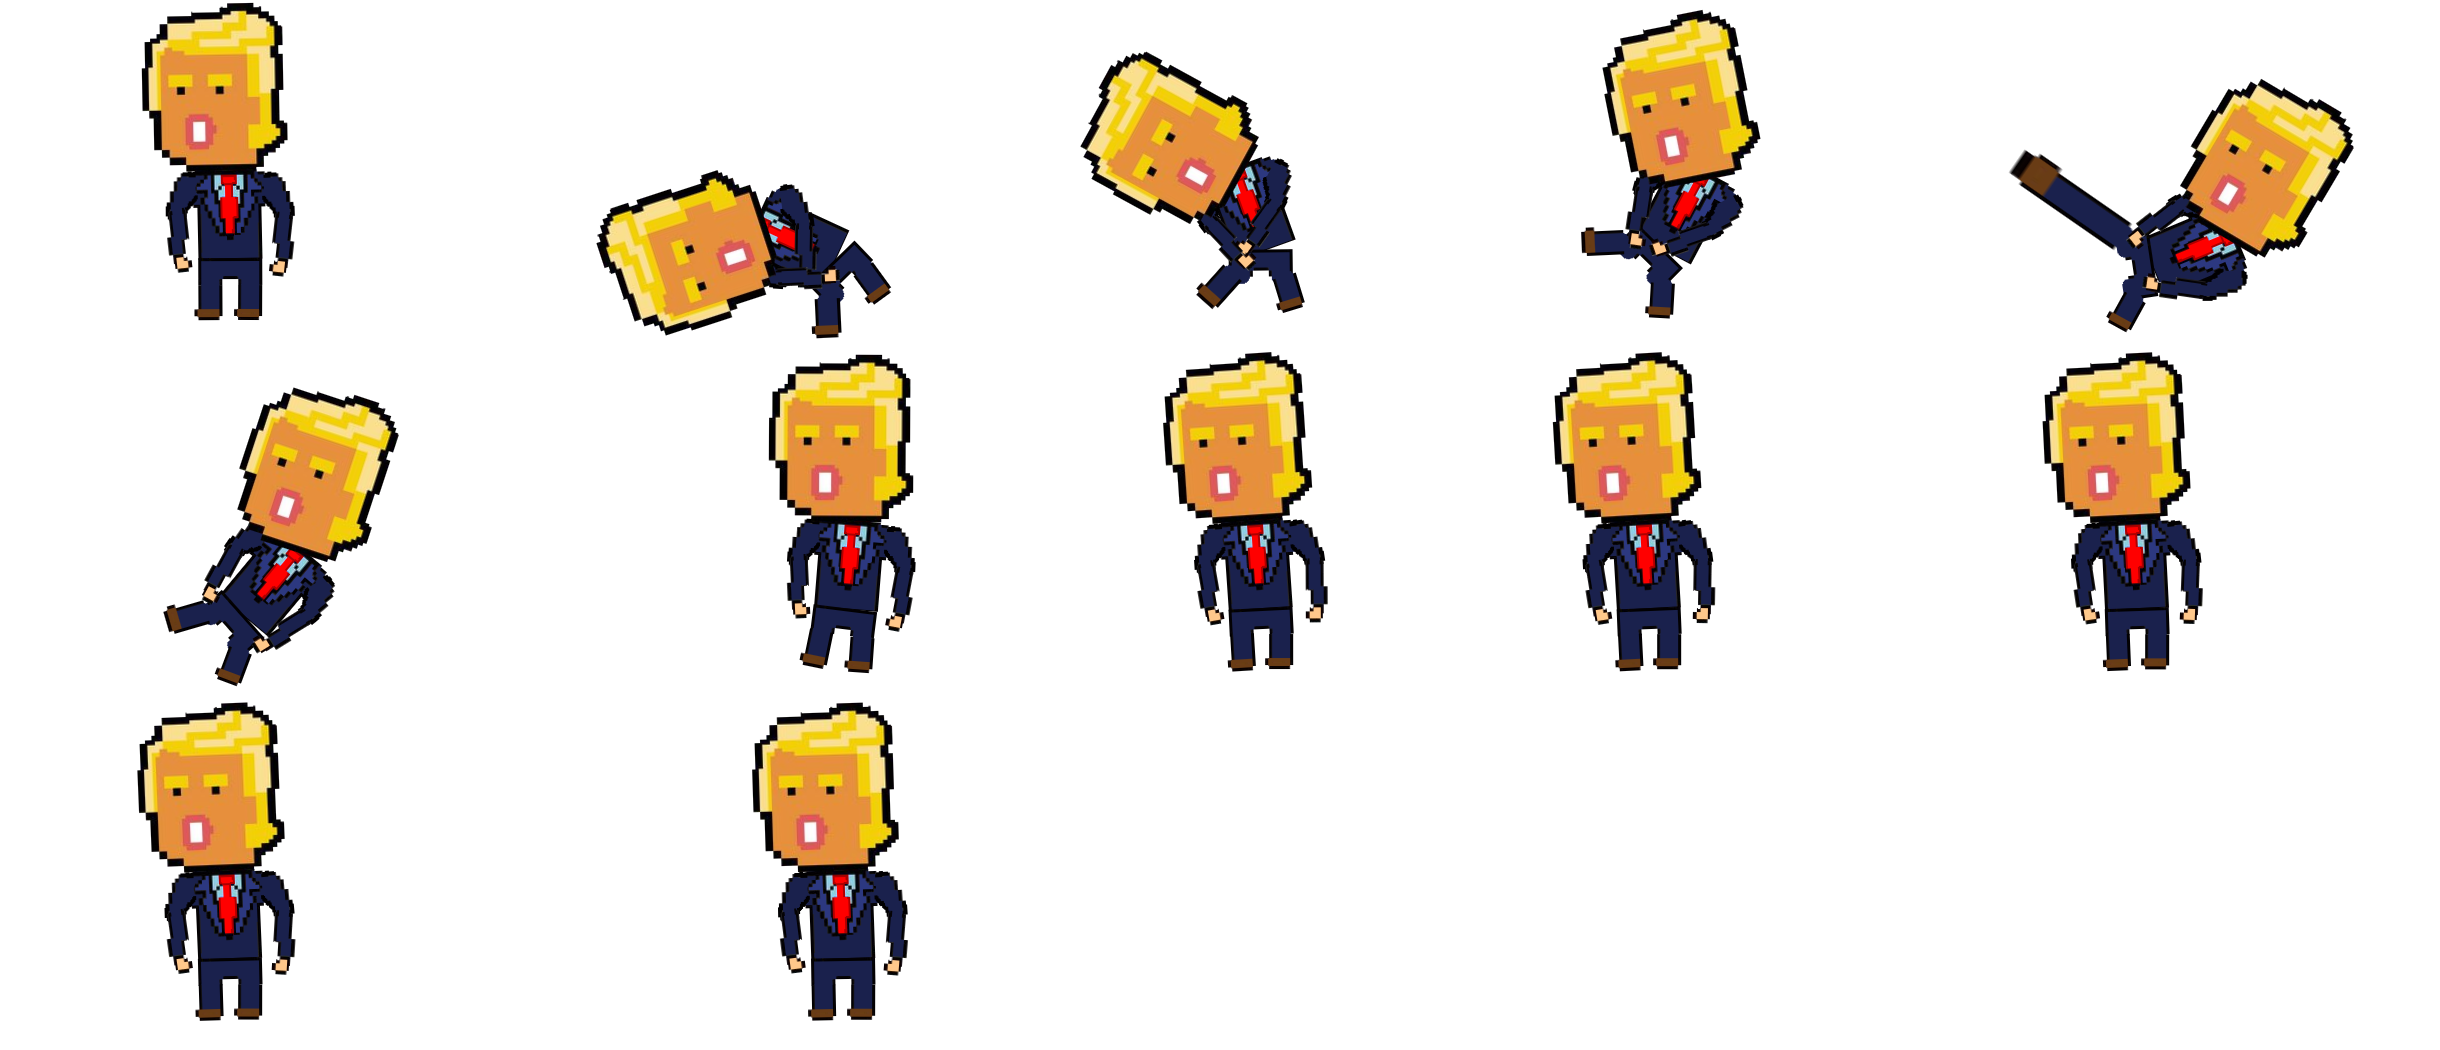
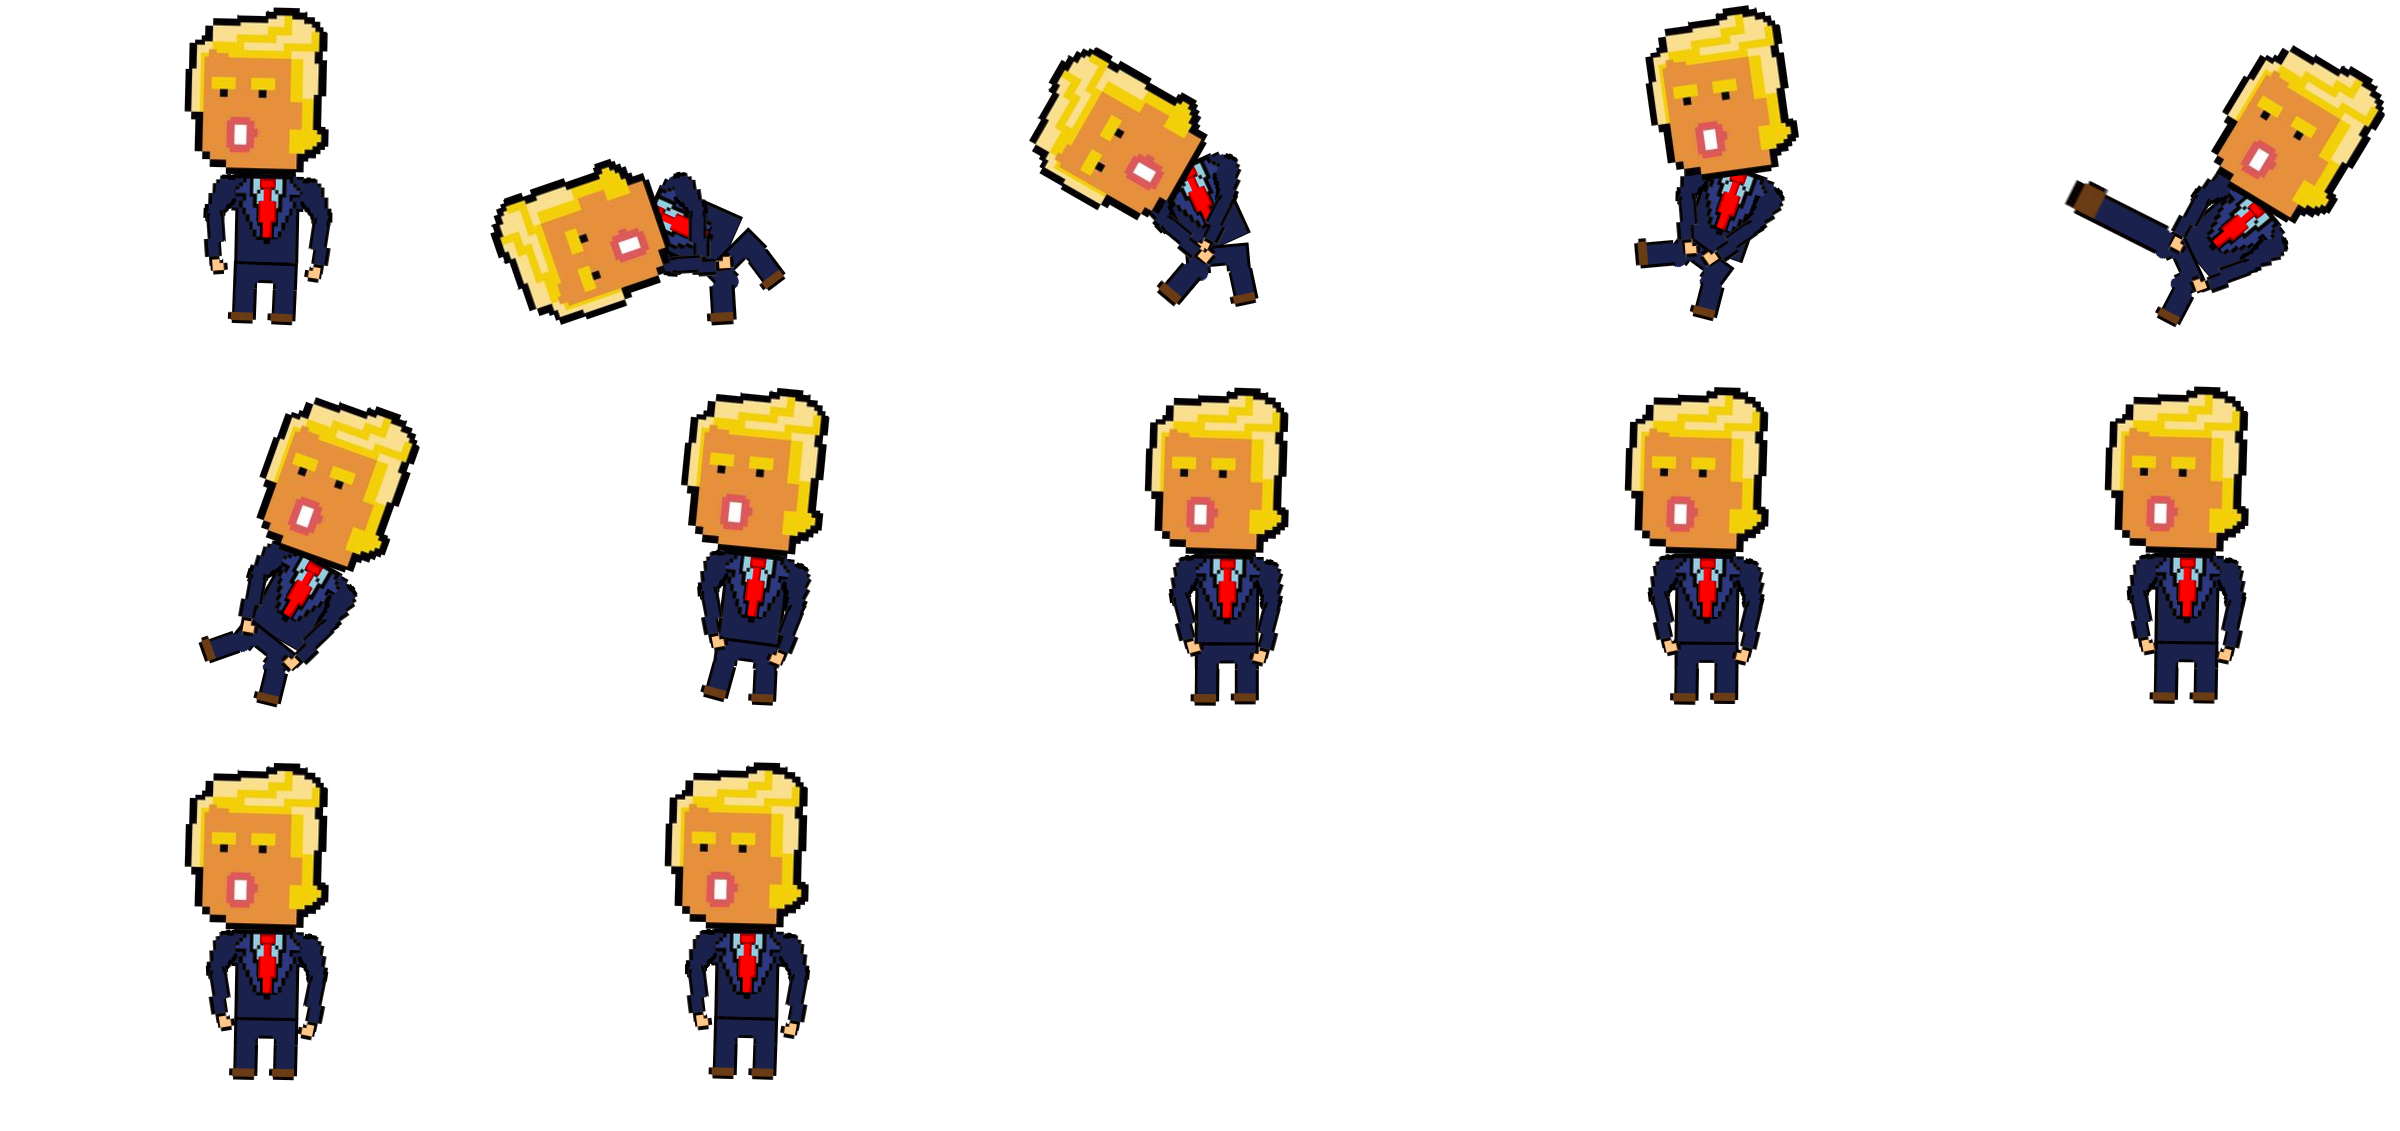
working on left facing animations

diff --git a/aiFighter.js b/aiFighter.js
@@ -111,7 +111,7 @@ function AIFighter(game, fighterName, ASSET_MANAGER, x, y, aiStatus) {
 
         //STAND
         this.animation = new Animation(ASSET_MANAGER.getAsset("./img/Trump/TrumpStanding.png"), 0, 0, 270, 325, 0.099, 6, true, false);
-        this.animationLeft = new Animation(ASSET_MANAGER.getAsset("./img/Trump/TrumpStandingLeft.png"), -10, 0, 260, 325, 0.099, 6, true, false);
+        this.animationLeft = new Animation(ASSET_MANAGER.getAsset("./img/Trump/TrumpStandingLeft.png"), 0, 0, 280, 320, 0.099, 5, true, false);
 
         //JUMP
         this.jumpAnimation = new Animation(ASSET_MANAGER.getAsset("./img/Trump/TrumpJump.png"), 0, 0, 242, 353, 0.06, 20, false, false);
@@ -119,7 +119,7 @@ function AIFighter(game, fighterName, ASSET_MANAGER, x, y, aiStatus) {
 
         //PUNCH
         this.punchingAnimation = new Animation(ASSET_MANAGER.getAsset("./img/Trump/TrumpPunch.png"), 0, 0, 434, 345, 0.06, 12, false, false);
-        this.punchingAnimationLeft = new Animation(ASSET_MANAGER.getAsset("./img/Trump/TrumpPunchLeft.png"), 0, 0, 434, 345, 0.06, 12, false, false);
+        this.punchingAnimationLeft = new Animation(ASSET_MANAGER.getAsset("./img/Trump/TrumpPunchLeft.png"), 0, 0, 434, 359, 0.06, 12, false, false);
 
         //LOW KICK
         this.lowKickingAnimation = new Animation(ASSET_MANAGER.getAsset("./img/Trump/TrumpLoKick.png"), 0, 0, 429, 341, 0.06, 12, false, false);
@@ -130,7 +130,7 @@ function AIFighter(game, fighterName, ASSET_MANAGER, x, y, aiStatus) {
 
         //WALK
         this.walkRightAnimation = new Animation(ASSET_MANAGER.getAsset("./img/Trump/TrumpWalkRight.png"), 0, 0, 192, 326, 0.06, 20, false, false);
-        this.walkLeftAnimation = new Animation(ASSET_MANAGER.getAsset("./img/Trump/TrumpWalkLeft.png"), 0, 0, 189.25, 326, 0.06, 20, false, false);//might need fixed. looks okay tho.
+        this.walkLeftAnimation = new Animation(ASSET_MANAGER.getAsset("./img/Trump/TrumpWalkLeft.png"), 0, 0, 230, 326, 0.06, 20, false, false);//might need fixed. looks okay tho.
 
         //HIGH KICK
         this.highKickAnimation = new Animation(ASSET_MANAGER.getAsset("./img/Trump/TrumpHiKick.png"), 0, 0, 488, 350, 0.06, 12, false, false);
@@ -139,7 +139,7 @@ function AIFighter(game, fighterName, ASSET_MANAGER, x, y, aiStatus) {
 
         //BLOCK
         this.blockingAnimation = new Animation(ASSET_MANAGER.getAsset("./img/Trump/TrumpBlock.png"), 0, 0, 388, 424, 0.06, 12, false, false);
-        this.blockingLeftAnimation = new Animation(ASSET_MANAGER.getAsset("./img/Trump/TrumpBlockLeft.png"), 0, 0, 388, 424, 0.06, 12, false, false);
+        this.blockingLeftAnimation = new Animation(ASSET_MANAGER.getAsset("./img/Trump/TrumpBlockLeft.png"), 0, 0, 360, 435, 0.06, 12, false, false);
 
         //DEATH
         this.deadAnimation = new Animation(ASSET_MANAGER.getAsset("./img/Trump/TrumpDead.png"),0,0, 476, 338, 0.06, 12, false, false);
@@ -200,7 +200,7 @@ function AIFighter(game, fighterName, ASSET_MANAGER, x, y, aiStatus) {
     this.x = x;
     this.y = y;
     this.facing = aiStatus;
-
+    this.fightRadius = 200;
     //health variable
     this.health  = 100;
 
@@ -220,63 +220,100 @@ AIFighter.prototype.constructor = AIFighter;
 
 AIFighter.prototype.search = function(other){
     if(this.move){
+
+
+        var moves = [this.punching, this.highKicking, this.blocking];
         if(this.x > other.x){
-            this.x = this.x - 2;
+            if(other.x === this.x - this.fightRadius ){
+                var truths = 0;
+                var rand = Math.floor(Math.random() * (4));
+                
+                for(var i = 0; i< moves.length; i++){
+                    if(moves[i] == true){
+                        truths++;
+                    }
+                }
+                
+                if(truths ==0){
+                    if(rand ==2){
+                        this.highKicking = true;
+                    } else if(rand == 1){
+                        this.punching = true;
+                    } else if(rand == 3){
+                        this.blocking = true;
+                    }
+                }
+
+
+
+
+            }else if(this.x >= other.x + this.fightRadius){
+                this.x = this.x - 2;
+            }
+
         }
 
         if(this.x <other.x){
-            this.x = this.x +2;
+            if(other.x == (this.x+ this.fightRadius)){
+                var truths = 0;
+                var rand = Math.floor(Math.random() * (4));
+
+                for(var i = 0; i< moves.length; i++){
+                    if(moves[i] == true){
+                        truths++;
+                    }
+                }
+
+                if(truths ==0){
+                    if(rand ==2){
+                        this.highKicking = true;
+                    } else if(rand == 1){
+                        this.punching = true;
+                    } else if(rand == 3){
+                        this.blocking = true;
+                    }
+                }
+            }else if(this.x <= other.x - this.fightRadius){
+                this.x = this.x +2;
+            }
+            
         }
     }
 
     
-    var moves = [this.punching, this.lowKicking, this.highKicking, this.blocking]
+
+}
+
+AIFighter.prototype.fight = function(other){
+
 }
 
 
 AIFighter.prototype.update = function(){
-    //jumping logic
-    //jumping logic
-    if (this.game.w) {
-        this.jumping = true;
-    }else if(this.game.p){
-        this.punching = true;
-    } else if(this.game.i) {
-        this.lowKicking=true;
-    } else if(this.game.o) {
-        this.highKicking=true;
-    } else if(this.game.s) {
-        this.ducking=true;
-    } else if (this.game.d) {
-        //this.x + sprite width > canvas width
-        // console.log(this.x);
-        if(this.x + 100 < 1180) {
-            this.walkRight = true;
-            this.facing = false;
-        }
-    }else if(this.game.a){
-        /*
-         potentially seperaten for each character for better accuracy.
-         if(this.fighter === CLINTON) {
-         if(this.x - 50 > 0) {         
-         this.walkLeft = true;
-         this.facing = true;
-         }  
-         } 
-         */
-        //this.x - sprite width > canvas left (0)
-        if(this.x - 50 > 0) {
-            this.walkLeft = true;
-            this.facing = true;
-        }
-    }else if(this.game.q){
-        this.blocking = true;
-    }
 
-    for(var i =0; i< this.game.entities.length; i++){
+
+    var ents = this.game.entities;
+    for(var i =0; i< ents.length; i++){
         var ent = this.game.entities[i];
         if(this != ent && ent instanceof Fighter){
             this.search(ent);
+        }
+    }
+
+    for(var i = 0; i< ents.length; i++){
+        var ent = ents[i];
+        if(this!= ent && ent instanceof Fighter){
+            var truths = 0;
+            var moves = [this.punching, this.highKicking, this.blocking];
+            for(var i = 0; i< moves.length; i++){
+                if(moves[i] == true){
+                    truths++;
+                }
+            }
+            if(truths ===0){
+                this.fight(ent);
+            }
+
         }
     }
 

diff --git a/mikeMain.js b/mikeMain.js
@@ -165,6 +165,7 @@ ASSET_MANAGER.queueDownload("./img/Sanders/SandersBlock.png");
 
 //Background
 ASSET_MANAGER.queueDownload("./img/whiteHouse.jpg");
+ASSET_MANAGER.queueDownload("./img/titleScreen.png");
 
 ASSET_MANAGER.downloadAll(function () {
     console.log("starting up da sheild");
@@ -177,27 +178,37 @@ ASSET_MANAGER.downloadAll(function () {
     var cruz = "tedCruz"
     var clinton = "hillaryClinton"
     var sanders = "bernieSanders"
-    
-    var fighter = new Fighter(gameEngine,clinton, ASSET_MANAGER, 0, 0, false);
-    var fighter2 = new AIFighter(gameEngine, trump, ASSET_MANAGER, 1000, 0, true);
-
-    gameEngine.addEntity(new Background(gameEngine, ASSET_MANAGER.getAsset("./img/whiteHouse.jpg")));
-
-    gameEngine.addEntity(fighter);
-    gameEngine.addEntity(fighter2);
-
-
 
     gameEngine.init(ctx);
+    var fighter = new Fighter(gameEngine,trump, ASSET_MANAGER, 100, 0, true);
+    // var fighter2 = new AIFighter(gameEngine, trump, ASSET_MANAGER, 100, 0, true);
+    gameEngine.addEntity(new Background(gameEngine, ASSET_MANAGER.getAsset("./img/whiteHouse.jpg")));
+    var title = new Background(gameEngine, ASSET_MANAGER.getAsset("./img/titleScreen.png"));
+    gameEngine.addEntity(fighter);
+    // gameEngine.addEntity(fighter2);
+    gameEngine.addEntity(title);
+
+
+
+
 
     canvas.addEventListener('focus', function (event) {
         var ents = gameEngine.entities;
+
+        for(var j = 0; j< ents.length; j++){
+            if(ents[j] === title){
+                ents.splice(j,1);
+                break;
+            }
+        }
         for(var i = 0; i< ents.length; i++){
             if(ents[i]===fighter2){
                 fighter2.move = true;
                 break;
             }
+
         }
+
     });
 
     gameEngine.start();
